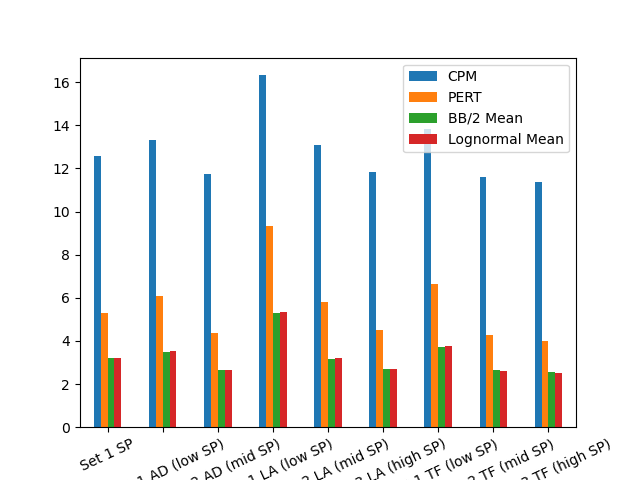
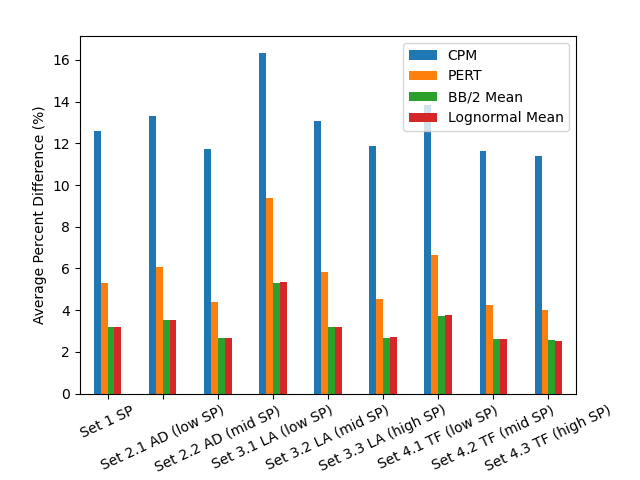
Graphics updates for clarity and better visual representation

diff --git a/Code/Data Vis/Percent_Error_Data_Vis_by_Distro.py b/Code/Data Vis/Percent_Error_Data_Vis_by_Distro.py
@@ -30,6 +30,9 @@ tri_df = pd.DataFrame.from_dict(triangular_results, orient='index', columns=['Tr
 logn_df = pd.DataFrame.from_dict(lognormal_results, orient='index', columns=['Lognormal_Avg_Percent_Diff'])
 bigb_df = pd.DataFrame.from_dict(bigbeta_results, orient='index', columns=['BigBeta_Avg_Percent_Diff'])
 
+tri_df = tri_df.rename(index={'BB/2 Mean': 'BB/2', 'Lognormal Mean': 'Lognormal'})
+logn_df = logn_df.rename(index={'BB/2 Mean': 'BB/2', 'Lognormal Mean': 'Lognormal'})
+bigb_df = bigb_df.rename(index={'BB/2 Mean': 'BB/2', 'Lognormal Mean': 'Lognormal'})
 
 fig, axes = plt.subplots(1, 3, figsize=(15, 5))
 

diff --git a/Code/Data Vis/Percent_Error_Data_Vis_by_Complexity.py b/Code/Data Vis/Percent_Error_Data_Vis_by_Complexity.py
@@ -9,4 +9,5 @@ df = pd.read_json(os.path.join(os.path.dirname(__file__), '../../Output/Complexi
 # Plotting
 df.plot.bar()
 plt.xticks(rotation=25)
+plt.ylabel('Average Percent Difference (%)')
 plt.show()

diff --git a/Complete_Exploratory_Data_Analysis_Summary.md b/Complete_Exploratory_Data_Analysis_Summary.md
@@ -240,9 +240,15 @@ The notebook generates:
    - Top row: grouped bar charts showing mean percent error by method (CPM, PERT, BB/2 Mean, Lognormal Mean) at Low, Mid, and High complexity for each distribution.
    - Bottom row: corresponding line plots (error trends) for each method across complexity levels for each distribution.
 
+3. **Average Perent Difference by Dataset (Bar Chart)**
+    - Nine stacked bar charts (one for each dataset).
+    - Each chart shows Average Percent Difference from the Simulation Mean for each Estimation method (CPM, PERT, BB/2, Lognormal).
+
 ![Percent Difference by Distribution](Output\Graphics\Percent_Difference_Data_Vis_by_Distribution.png)
 
 ![Method Accuracy by Dataset Complexity](Output\Graphics\Method_Accuracy_by_Dataset_Complexity.png)
+
+![Percent Difference by Compleity](Output\Graphics\Percent_Difference_Data_Vis_by_Complexity.png)
 
 ### 4.2 Qualitative Findings from Complexity Analysis
 
